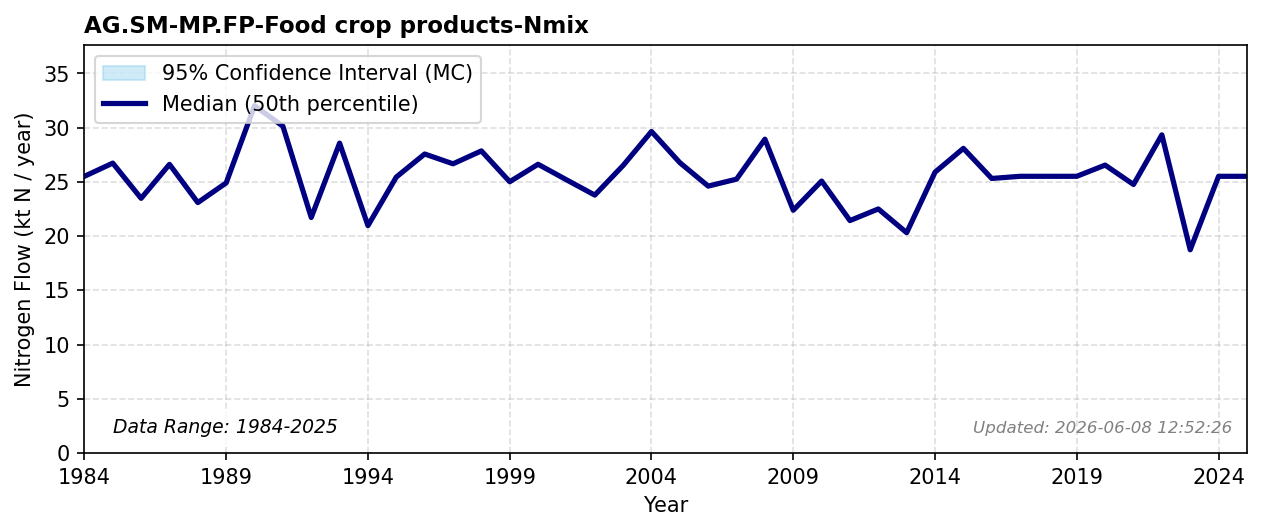
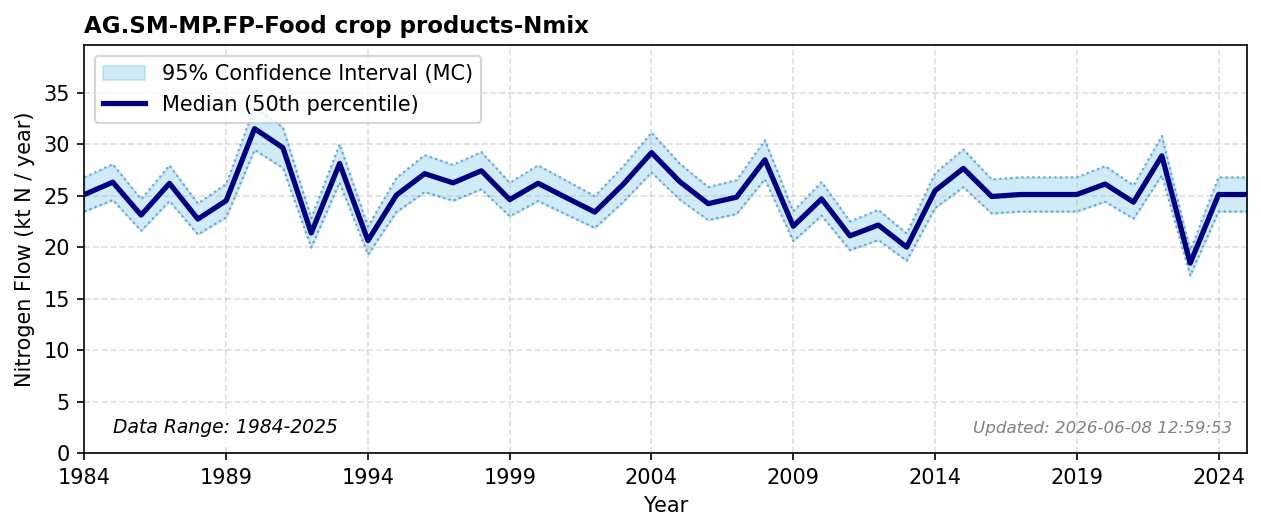
lagt til fodder crops

diff --git a/calculations/ag_mc.py b/calculations/ag_mc.py
@@ -28,6 +28,7 @@ def execute_calculations_ag(preloaded_data, current_params, dataset_noise, curre
     # 1. Spesialstrømmer (Henter ferdig generert dataset_noise og parameterstøy)
     _add_food_crop_products_flow_mc(results, preloaded_data, current_params, dataset_noise)
     _add_industrial_crop_products_flow_mc(results, preloaded_data, current_params, dataset_noise)
+    _add_fodder_crops_flow_mc(results, preloaded_data, current_params, dataset_noise)
     
     # [Neste strømmer legges til fortløpende her...]
     
@@ -166,6 +167,137 @@ def _add_industrial_crop_products_flow_mc(results, preloaded_data, current_param
             'comment': comment,
             'data_sources': data_sources
         })
+
+    missing_years = EXPECTED_YEARS - collected_years
+    report_missing_years(flow_code, missing_years, results)
+    
+def _add_fodder_crops_flow_mc(results, preloaded_data, current_params, dataset_noise):
+    """
+    MC-VERSJON: Fodder crops.
+    Henter tre ferdiginnlastede DataFrames fra RAM og påfører sentralt trukket
+    parameterstøy (N_content) og datasettstøy (asymmetrisk perc vs abs).
+    """
+    flow_code = 'AG.SM-AG.MM-Fodder crops-Nmix'
+    collected_years = set()
+    comment = 'ok (MC-støy lagt på basert på kildens usikkerhetstype)'
+
+    # 1. Globale parametere (Allerede perturbert sentralt i generate_mc_parameters_fast)
+    fodder_prot = float(current_params.get("fodder_protein_frac", 0.12))
+    Jones = float(current_params.get("Jones_factor", 6.25))
+    N_content = fodder_prot / Jones
+
+    # 2. Hent og klargjør datasettstøy for de to SSB-kildene
+    key_13648 = '13648'
+    has_noise_13648 = dataset_noise and key_13648 in dataset_noise
+    noise_13648_val = dataset_noise[key_13648]['value'] if has_noise_13648 else 1.0
+    noise_13648_type = dataset_noise[key_13648]['type'] if has_noise_13648 else 'perc'
+
+    key_05772 = '05772'
+    has_noise_05772 = dataset_noise and key_05772 in dataset_noise
+    noise_05772_val = dataset_noise[key_05772]['value'] if has_noise_05772 else 1.0
+    noise_05772_type = dataset_noise[key_05772]['type'] if has_noise_05772 else 'perc'
+
+    # =========================================================================
+    # DEL A: SSB table 13648
+    # =========================================================================
+    df_13648 = preloaded_data.get('ssb_13648_raw')
+    if df_13648 is not None:
+        data_sources = 'SSB table 13648'
+        # Excel: cell(row=4, column=col) -> df.iloc[3, col-1]
+        for col_idx in range(1, 5):  # range(2, 6) i Excel blir indeks 1 til 4 i DataFrame
+            year_val = df_13648.iloc[3, col_idx]
+            val5 = df_13648.iloc[4, col_idx]  # Eng til slått
+            val6 = df_13648.iloc[5, col_idx]  # Grøntfôr- og silovekstar
+            
+            if pd.notna(year_val) and pd.notna(val5) and pd.notna(val6):
+                year = int(year_val)
+                collected_years.add(year)
+                
+                base_value = (float(val5) + float(val6)) * N_content
+                
+                if has_noise_13648:
+                    if noise_13648_type == 'perc':
+                        value = base_value * noise_13648_val
+                    else:
+                        bound = dataset_noise[key_13648]['upp_bound'] if noise_13648_val >= 0 else dataset_noise[key_13648]['low_bound']
+                        value = base_value + (noise_13648_val * bound)
+                else:
+                    value = base_value
+                
+                if value < 0: value = 0.0
+                
+                results.append({
+                    'flow_name': flow_code, 'year': year, 'value': float(value),
+                    'comment': comment, 'data_sources': data_sources
+                })
+
+    # =========================================================================
+    # DEL B: SSB table 05772
+    # =========================================================================
+    df_05772 = preloaded_data.get('ssb_05772_raw')
+    if df_05772 is not None:
+        data_sources = 'SSB table 05772'
+        # Excel: cell(row=3, column=col) -> df.iloc[2, col-1]
+        for col_idx in range(1, 22):  # range(2, 23) i Excel blir indeks 1 til 21
+            year_val = df_05772.iloc[2, col_idx]
+            val4 = df_05772.iloc[3, col_idx]  # Grøntfôr- og silovekstar
+            val5 = df_05772.iloc[4, col_idx]  # Høy
+            
+            if pd.notna(year_val) and pd.notna(val4) and pd.notna(val5):
+                year = int(year_val)
+                collected_years.add(year)
+                
+                base_value = (float(val4) + float(val5)) * N_content
+                
+                if has_noise_05772:
+                    if noise_05772_type == 'perc':
+                        value = base_value * noise_05772_val
+                    else:
+                        bound = dataset_noise[key_05772]['upp_bound'] if noise_05772_val >= 0 else dataset_noise[key_05772]['low_bound']
+                        value = base_value + (noise_05772_val * bound)
+                else:
+                    value = base_value
+                
+                if value < 0: value = 0.0
+                
+                results.append({
+                    'flow_name': flow_code, 'year': year, 'value': float(value),
+                    'comment': comment, 'data_sources': data_sources
+                })
+
+    # =========================================================================
+    # DEL C: Før 2000 (SSB Jordbruksstatistikk)
+    # =========================================================================
+    df_old = preloaded_data.get('grovfor_old_raw')
+    if df_old is not None:
+        data_sources = 'SSB Jordbruksstatistikk'
+        # Excel: cell(row=r, column=1) -> df.iloc[r-1, 0]
+        for r_idx in range(2, 18):  # range(3, 19) i Excel blir indeks 2 til 17
+            year_val = df_old.iloc[r_idx, 0]
+            val2 = df_old.iloc[r_idx, 1]  # Grøntfôr- og silovekstar
+            val3 = df_old.iloc[r_idx, 2]  # Høy
+            
+            if pd.notna(year_val) and pd.notna(val2) and pd.notna(val3):
+                year = int(year_val)
+                collected_years.add(year)
+                
+                base_value = (float(val2) + float(val3)) * N_content
+                
+                if has_noise_05772:
+                    if noise_05772_type == 'perc':
+                        value = base_value * noise_05772_val
+                    else:
+                        bound = dataset_noise[key_05772]['upp_bound'] if noise_05772_val >= 0 else dataset_noise[key_05772]['low_bound']
+                        value = base_value + (noise_05772_val * bound)
+                else:
+                    value = base_value
+                
+                if value < 0: value = 0.0
+                
+                results.append({
+                    'flow_name': flow_code, 'year': year, 'value': float(value),
+                    'comment': comment, 'data_sources': data_sources
+                })
 
     missing_years = EXPECTED_YEARS - collected_years
     report_missing_years(flow_code, missing_years, results)

diff --git a/data_loader.py b/data_loader.py
@@ -138,12 +138,22 @@ def load_all_data(selected_pools):
 
         # SSB Grovfôrtabeller
         try:
-            preloaded['ag_ssb_13648'] = openpyxl.load_workbook('data_files/13648_20251117-154625.xlsx', data_only=True)
-            preloaded['ag_ssb_05772'] = openpyxl.load_workbook('data_files/05772_20251210-142618.xlsx', data_only=True)
-            preloaded['ag_grovfor_old'] = openpyxl.load_workbook('data_files/grovfor_før_2000.xlsx', data_only=True)
+            wb_13648 = openpyxl.load_workbook('data_files/13648_20251117-154625.xlsx', data_only=True)
+            wb_05772 = openpyxl.load_workbook('data_files/05772_20251210-142618.xlsx', data_only=True)
+            wb_old = openpyxl.load_workbook('data_files/grovfor_før_2000.xlsx', data_only=True)
+            
+            preloaded['ag_ssb_13648'] = wb_13648
+            preloaded['ag_ssb_05772'] = wb_05772
+            preloaded['ag_grovfor_old'] = wb_old
+            
+            # NYTT: Konverter til DataFrames med en gang for å unngå openpyxl i MC-løkka
+            preloaded['ssb_13648_raw'] = pd.DataFrame(list(wb_13648['Avling'].values))
+            preloaded['ssb_05772_raw'] = pd.DataFrame(list(wb_05772['Gronfor'].values))
+            preloaded['grovfor_old_raw'] = pd.DataFrame(list(wb_old['Ark1'].values))
+            
         except Exception as e:
             print(f"[KRITISK FEIL] Kunne ikke laste SSB grovfôrtabeller: {e}")
-
+            
         # CRLTAP Tekstfil (Sektordata for utslipp)
         try:
             # Siden denne leses rått via load_crltap_emissions_to_N i utils, lagrer vi banen eller innholdet.